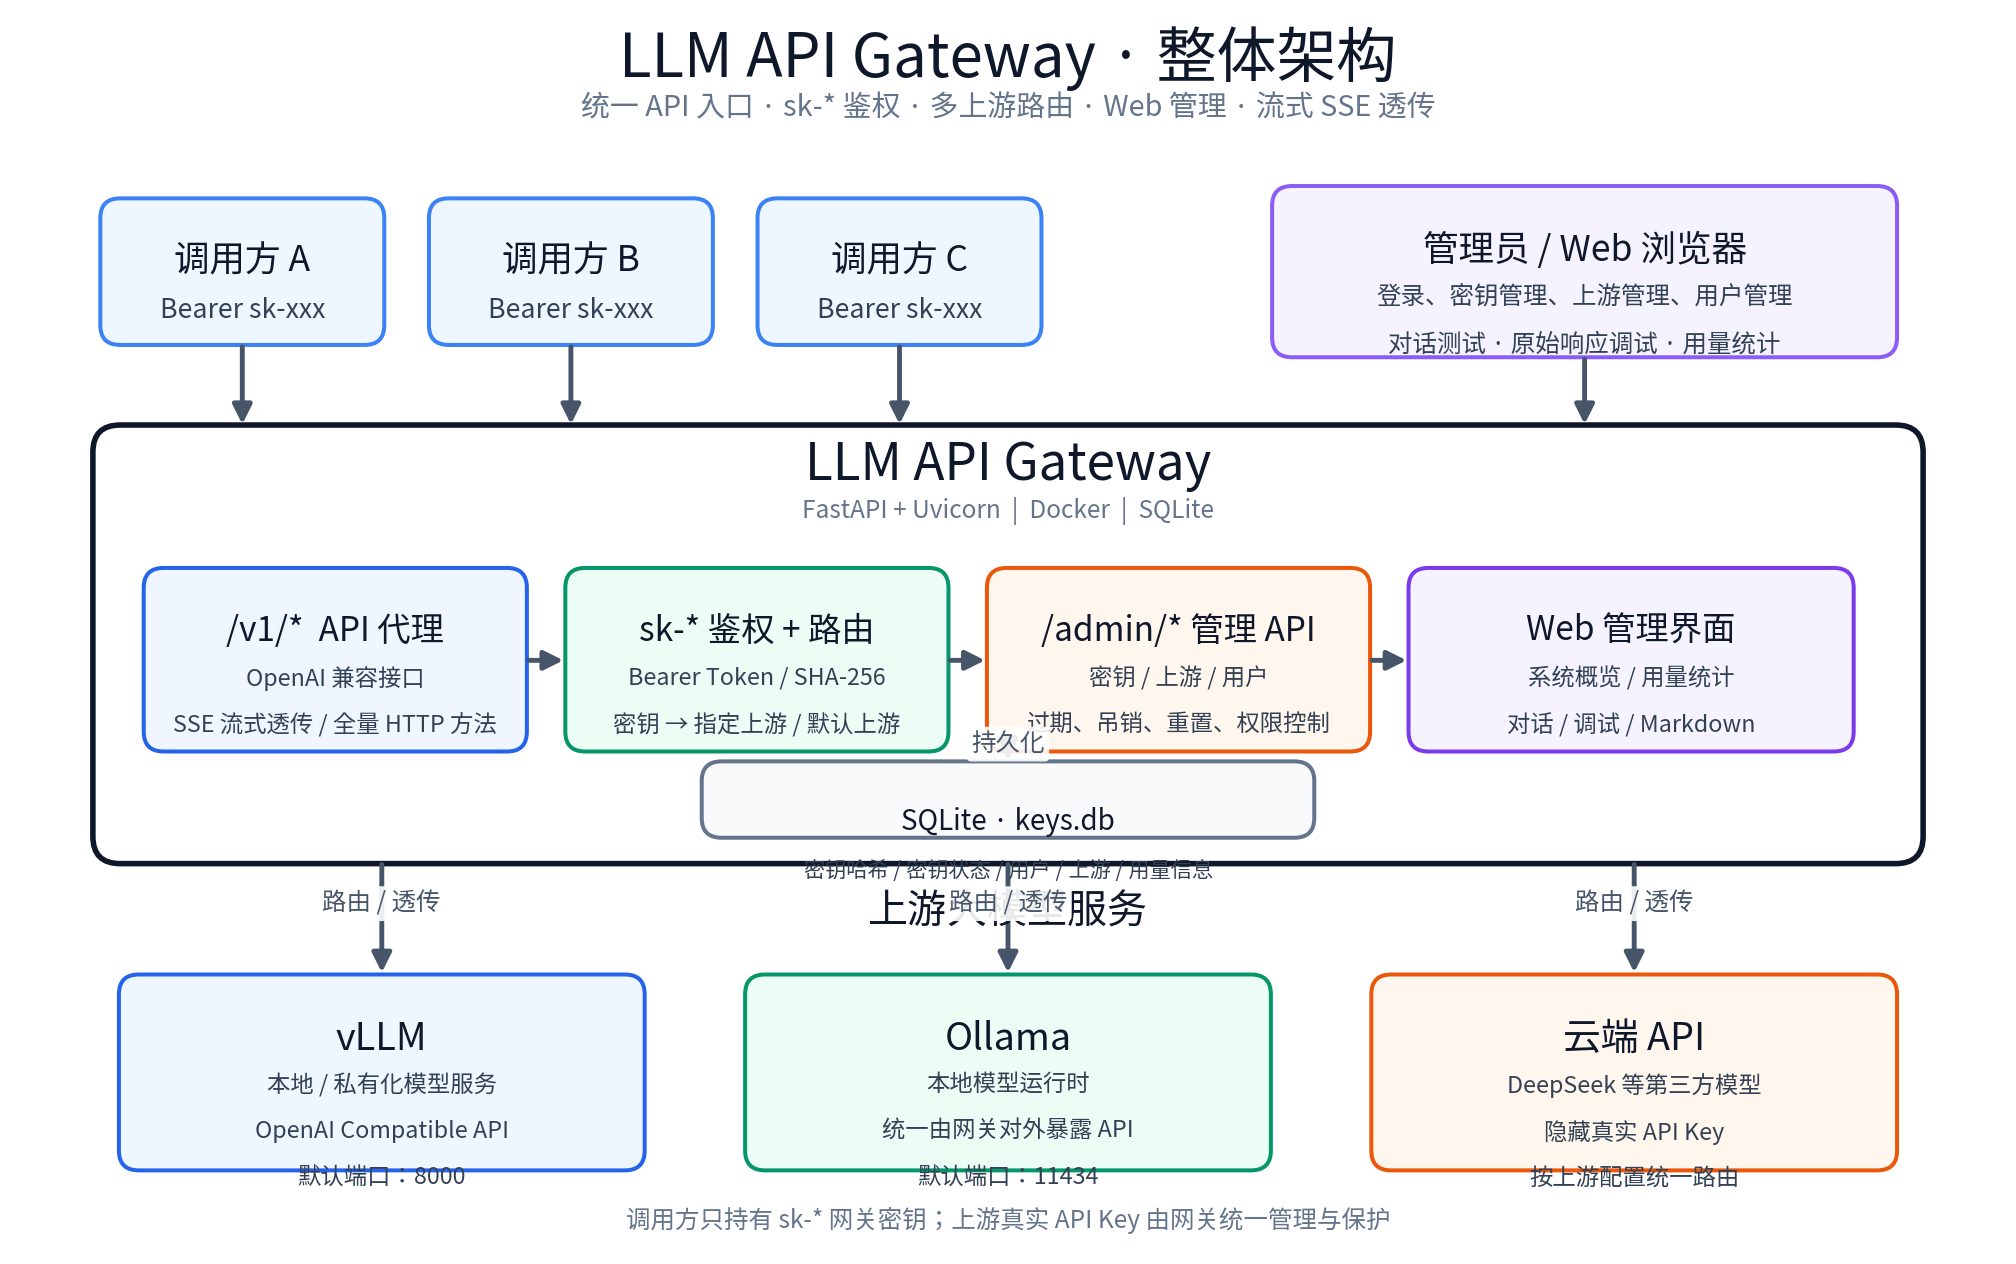
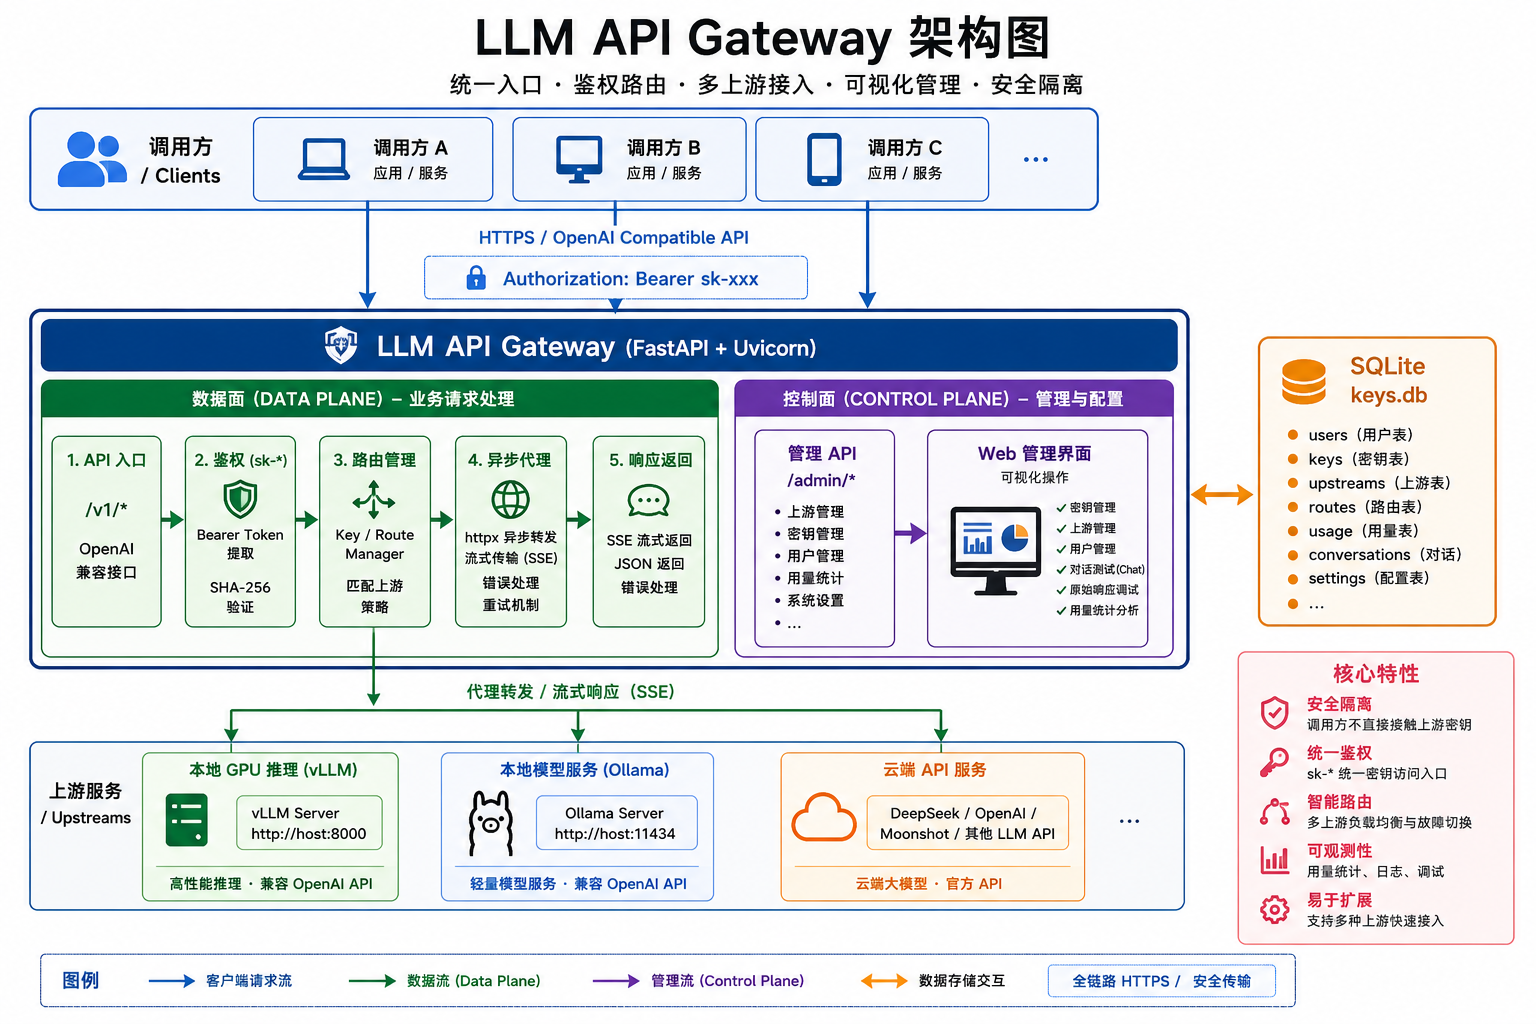
feat: 架构图更新

Changed region(s): [[0.0, 0.0, 0.9688, 1.0]]

diff --git a/README.md b/README.md
@@ -55,6 +55,10 @@
 
 ![token](images/llm-api-gateway-architecture.png)
 
+![token](images/llm-api-gateway-architecture-1.jpeg)
+
+![token](images/llm-api-gateway-architecture-2.jpeg)
+
 ## 技术栈
 
 | 层级 | 技术 |
